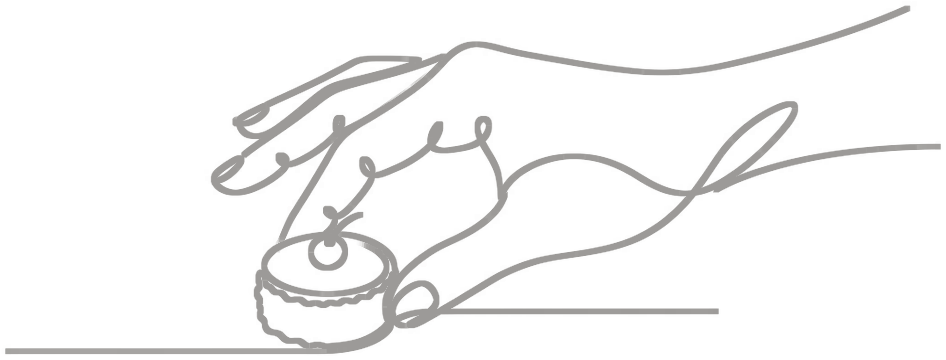
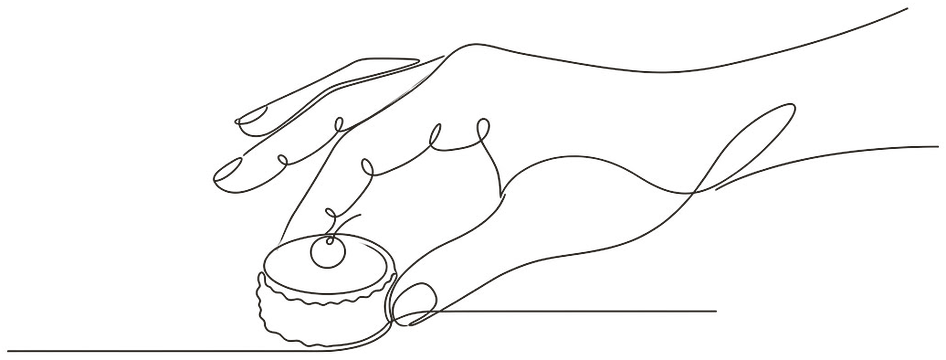
The Day: canape hand back to its fine original line

Changed region(s): [[0.0, 0.0306, 0.9503, 1.0], [0.6744, 0.275, 1.0, 0.6111], [0.9503, 0.0, 0.981, 0.0306]]

diff --git a/the-day.html b/the-day.html
@@ -9,7 +9,7 @@
 <link rel="preconnect" href="https://fonts.googleapis.com" />
 <link rel="preconnect" href="https://fonts.gstatic.com" crossorigin />
 <link href="https://fonts.googleapis.com/css2?family=Cormorant+Garamond:ital,wght@0,400;0,500;0,600;1,400&family=Jost:wght@300;400;500;600;700&family=Pinyon+Script&family=Playfair+Display:ital,wght@0,500;0,600;1,500&family=Bodoni+Moda:ital,wght@0,500;0,600;1,500&family=Cinzel:wght@500;600&family=Marcellus&family=Prata&display=swap" rel="stylesheet" />
-<link rel="stylesheet" href="style.css?v=65" />
+<link rel="stylesheet" href="style.css?v=66" />
 </head>
 <body>
 
@@ -39,22 +39,22 @@
       <hr class="divider" aria-hidden="true" />
     </div>
     <div class="timeline">
-      <div class="tl-item tl-item--art"><div class="tl-text"><div class="tl-time">11:45 am</div><div class="tl-label">Guests Arrive</div><div class="tl-note">Welcome, and a &lsquo;getting comfy&rsquo; half hour</div></div><div class="tl-art tl-art--r"><img src="Photos/itinerary/guests.png?v=19" alt="" loading="lazy"></div></div>
-      <div class="tl-item tl-item--art"><div class="tl-art tl-art--l"><img src="Photos/itinerary/seated.png?v=19" alt="" loading="lazy"></div><div class="tl-text"><div class="tl-time">12:15 pm</div><div class="tl-label">Please Be Seated</div><div class="tl-note">Guests are seated while the registrar speaks with the couple</div></div></div>
-      <div class="tl-item tl-item--art"><div class="tl-text"><div class="tl-time">12:30 pm</div><div class="tl-label">The Ceremony</div><div class="tl-note">The main event &ndash; it&rsquo;s time to make it official!</div></div><div class="tl-art tl-art--r"><img src="Photos/itinerary/ceremony.png?v=19" alt="" loading="lazy"></div></div>
-      <div class="tl-item tl-item--art"><div class="tl-art tl-art--l"><img src="Photos/itinerary/camera.png?v=19" alt="" loading="lazy"></div><div class="tl-text"><div class="tl-time">1:00 pm</div><div class="tl-label">Drinks Reception &amp; Photographs</div><div class="tl-note"></div></div></div>
-      <div class="tl-item tl-item--art"><div class="tl-text"><div class="tl-time">1:15 pm</div><div class="tl-label">Canap&eacute;s</div><div class="tl-note">Served during the drinks reception</div></div><div class="tl-art tl-art--r"><img src="Photos/itinerary/canapes.png?v=19" alt="" loading="lazy"></div></div>
-      <div class="tl-item tl-item--art"><div class="tl-art tl-art--l"><img src="Photos/itinerary/tower.png?v=19" alt="" loading="lazy"></div><div class="tl-text"><div class="tl-time">2:30 pm</div><div class="tl-label">Into the Ballroom</div><div class="tl-note">Guests are moved through to the Ballroom</div></div></div>
-      <div class="tl-item tl-item--art"><div class="tl-text"><div class="tl-time">2:45 pm</div><div class="tl-label">The Happy Couple</div><div class="tl-note">The Master of Ceremonies announces Jessica &amp; Matthew</div></div><div class="tl-art tl-art--r"><img src="Photos/itinerary/couple.png?v=19" alt="" loading="lazy"></div></div>
-      <div class="tl-item tl-item--art"><div class="tl-art tl-art--l"><img src="Photos/itinerary/toast.png?v=19" alt="" loading="lazy"></div><div class="tl-text"><div class="tl-time">3:00 pm</div><div class="tl-label">Speeches &amp; Toast</div><div class="tl-note"></div></div></div>
-      <div class="tl-item tl-item--art"><div class="tl-text"><div class="tl-time">3:30 pm</div><div class="tl-label">Wedding Breakfast</div><div class="tl-note">The wedding breakfast is served</div></div><div class="tl-art tl-art--r"><img src="Photos/itinerary/breakfast.png?v=19" alt="" loading="lazy"></div></div>
-      <div class="tl-item tl-item--art"><div class="tl-art tl-art--l"><img src="Photos/itinerary/cocktail.png?v=19" alt="" loading="lazy"></div><div class="tl-text"><div class="tl-time">5:30 pm</div><div class="tl-label">Refreshment Hour</div><div class="tl-note">An hour of refreshment time before we meet back for the evening</div></div></div>
-      <div class="tl-item tl-item--art"><div class="tl-text"><div class="tl-time">6:30 pm</div><div class="tl-label">Evening Guests Arrive</div><div class="tl-note">Evening guests arrive and the cake is cut</div></div><div class="tl-art tl-art--r"><img src="Photos/itinerary/cake.png?v=19" alt="" loading="lazy"></div></div>
-      <div class="tl-item tl-item--art"><div class="tl-art tl-art--l"><img src="Photos/itinerary/dance.png?v=19" alt="" loading="lazy"></div><div class="tl-text"><div class="tl-time">7:00 pm</div><div class="tl-label">First Dance</div><div class="tl-note"></div></div></div>
-      <div class="tl-item tl-item--art"><div class="tl-text"><div class="tl-time">8:30 pm</div><div class="tl-label">Evening Food</div><div class="tl-note">Evening food is served</div></div><div class="tl-art tl-art--r"><img src="Photos/itinerary/dinner.png?v=19" alt="" loading="lazy"></div></div>
-      <div class="tl-item tl-item--art"><div class="tl-art tl-art--l"><img src="Photos/itinerary/taxi.png?v=19" alt="" loading="lazy"></div><div class="tl-text"><div class="tl-time">12:00 am</div><div class="tl-label">Farewell</div><div class="tl-note">The bar closes, the music finishes and guests depart</div></div></div>
+      <div class="tl-item tl-item--art"><div class="tl-text"><div class="tl-time">11:45 am</div><div class="tl-label">Guests Arrive</div><div class="tl-note">Welcome, and a &lsquo;getting comfy&rsquo; half hour</div></div><div class="tl-art tl-art--r"><img src="Photos/itinerary/guests.png?v=20" alt="" loading="lazy"></div></div>
+      <div class="tl-item tl-item--art"><div class="tl-art tl-art--l"><img src="Photos/itinerary/seated.png?v=20" alt="" loading="lazy"></div><div class="tl-text"><div class="tl-time">12:15 pm</div><div class="tl-label">Please Be Seated</div><div class="tl-note">Guests are seated while the registrar speaks with the couple</div></div></div>
+      <div class="tl-item tl-item--art"><div class="tl-text"><div class="tl-time">12:30 pm</div><div class="tl-label">The Ceremony</div><div class="tl-note">The main event &ndash; it&rsquo;s time to make it official!</div></div><div class="tl-art tl-art--r"><img src="Photos/itinerary/ceremony.png?v=20" alt="" loading="lazy"></div></div>
+      <div class="tl-item tl-item--art"><div class="tl-art tl-art--l"><img src="Photos/itinerary/camera.png?v=20" alt="" loading="lazy"></div><div class="tl-text"><div class="tl-time">1:00 pm</div><div class="tl-label">Drinks Reception &amp; Photographs</div><div class="tl-note"></div></div></div>
+      <div class="tl-item tl-item--art"><div class="tl-text"><div class="tl-time">1:15 pm</div><div class="tl-label">Canap&eacute;s</div><div class="tl-note">Served during the drinks reception</div></div><div class="tl-art tl-art--r"><img src="Photos/itinerary/canapes.png?v=20" alt="" loading="lazy"></div></div>
+      <div class="tl-item tl-item--art"><div class="tl-art tl-art--l"><img src="Photos/itinerary/tower.png?v=20" alt="" loading="lazy"></div><div class="tl-text"><div class="tl-time">2:30 pm</div><div class="tl-label">Into the Ballroom</div><div class="tl-note">Guests are moved through to the Ballroom</div></div></div>
+      <div class="tl-item tl-item--art"><div class="tl-text"><div class="tl-time">2:45 pm</div><div class="tl-label">The Happy Couple</div><div class="tl-note">The Master of Ceremonies announces Jessica &amp; Matthew</div></div><div class="tl-art tl-art--r"><img src="Photos/itinerary/couple.png?v=20" alt="" loading="lazy"></div></div>
+      <div class="tl-item tl-item--art"><div class="tl-art tl-art--l"><img src="Photos/itinerary/toast.png?v=20" alt="" loading="lazy"></div><div class="tl-text"><div class="tl-time">3:00 pm</div><div class="tl-label">Speeches &amp; Toast</div><div class="tl-note"></div></div></div>
+      <div class="tl-item tl-item--art"><div class="tl-text"><div class="tl-time">3:30 pm</div><div class="tl-label">Wedding Breakfast</div><div class="tl-note">The wedding breakfast is served</div></div><div class="tl-art tl-art--r"><img src="Photos/itinerary/breakfast.png?v=20" alt="" loading="lazy"></div></div>
+      <div class="tl-item tl-item--art"><div class="tl-art tl-art--l"><img src="Photos/itinerary/cocktail.png?v=20" alt="" loading="lazy"></div><div class="tl-text"><div class="tl-time">5:30 pm</div><div class="tl-label">Refreshment Hour</div><div class="tl-note">An hour of refreshment time before we meet back for the evening</div></div></div>
+      <div class="tl-item tl-item--art"><div class="tl-text"><div class="tl-time">6:30 pm</div><div class="tl-label">Evening Guests Arrive</div><div class="tl-note">Evening guests arrive and the cake is cut</div></div><div class="tl-art tl-art--r"><img src="Photos/itinerary/cake.png?v=20" alt="" loading="lazy"></div></div>
+      <div class="tl-item tl-item--art"><div class="tl-art tl-art--l"><img src="Photos/itinerary/dance.png?v=20" alt="" loading="lazy"></div><div class="tl-text"><div class="tl-time">7:00 pm</div><div class="tl-label">First Dance</div><div class="tl-note"></div></div></div>
+      <div class="tl-item tl-item--art"><div class="tl-text"><div class="tl-time">8:30 pm</div><div class="tl-label">Evening Food</div><div class="tl-note">Evening food is served</div></div><div class="tl-art tl-art--r"><img src="Photos/itinerary/dinner.png?v=20" alt="" loading="lazy"></div></div>
+      <div class="tl-item tl-item--art"><div class="tl-art tl-art--l"><img src="Photos/itinerary/taxi.png?v=20" alt="" loading="lazy"></div><div class="tl-text"><div class="tl-time">12:00 am</div><div class="tl-label">Farewell</div><div class="tl-note">The bar closes, the music finishes and guests depart</div></div></div>
     </div>
-    <div class="day-end" aria-hidden="true"><img src="Photos/itinerary/farewell.png?v=19" alt="" loading="lazy"></div>
+    <div class="day-end" aria-hidden="true"><img src="Photos/itinerary/farewell.png?v=20" alt="" loading="lazy"></div>
   </section>
 
   </main>

diff --git a/index.html b/index.html
@@ -19,7 +19,7 @@
 <link rel="preconnect" href="https://fonts.googleapis.com" />
 <link rel="preconnect" href="https://fonts.gstatic.com" crossorigin />
 <link href="https://fonts.googleapis.com/css2?family=Cormorant+Garamond:ital,wght@0,400;0,500;0,600;1,400&family=Jost:wght@300;400;500;600;700&family=Pinyon+Script&family=Playfair+Display:ital,wght@0,500;0,600;1,500&family=Bodoni+Moda:ital,wght@0,500;0,600;1,500&family=Cinzel:wght@500;600&family=Marcellus&family=Prata&display=swap" rel="stylesheet" />
-<link rel="stylesheet" href="style.css?v=65" />
+<link rel="stylesheet" href="style.css?v=66" />
 </head>
 <body>
 

diff --git a/faq.html b/faq.html
@@ -9,7 +9,7 @@
 <link rel="preconnect" href="https://fonts.googleapis.com" />
 <link rel="preconnect" href="https://fonts.gstatic.com" crossorigin />
 <link href="https://fonts.googleapis.com/css2?family=Cormorant+Garamond:ital,wght@0,400;0,500;0,600;1,400&family=Jost:wght@300;400;500;600;700&family=Pinyon+Script&family=Playfair+Display:ital,wght@0,500;0,600;1,500&family=Bodoni+Moda:ital,wght@0,500;0,600;1,500&family=Cinzel:wght@500;600&family=Marcellus&family=Prata&display=swap" rel="stylesheet" />
-<link rel="stylesheet" href="style.css?v=65" />
+<link rel="stylesheet" href="style.css?v=66" />
 </head>
 <body>
 

diff --git a/registry.html b/registry.html
@@ -9,7 +9,7 @@
 <link rel="preconnect" href="https://fonts.googleapis.com" />
 <link rel="preconnect" href="https://fonts.gstatic.com" crossorigin />
 <link href="https://fonts.googleapis.com/css2?family=Cormorant+Garamond:ital,wght@0,400;0,500;0,600;1,400&family=Jost:wght@300;400;500;600;700&family=Pinyon+Script&family=Playfair+Display:ital,wght@0,500;0,600;1,500&family=Bodoni+Moda:ital,wght@0,500;0,600;1,500&family=Cinzel:wght@500;600&family=Marcellus&family=Prata&display=swap" rel="stylesheet" />
-<link rel="stylesheet" href="style.css?v=65" />
+<link rel="stylesheet" href="style.css?v=66" />
 </head>
 <body>
 

diff --git a/rsvp.html b/rsvp.html
@@ -9,7 +9,7 @@
 <link rel="preconnect" href="https://fonts.googleapis.com" />
 <link rel="preconnect" href="https://fonts.gstatic.com" crossorigin />
 <link href="https://fonts.googleapis.com/css2?family=Cormorant+Garamond:ital,wght@0,400;0,500;0,600;1,400&family=Jost:wght@300;400;500;600;700&family=Pinyon+Script&family=Playfair+Display:ital,wght@0,500;0,600;1,500&family=Bodoni+Moda:ital,wght@0,500;0,600;1,500&family=Cinzel:wght@500;600&family=Marcellus&family=Prata&display=swap" rel="stylesheet" />
-<link rel="stylesheet" href="style.css?v=65" />
+<link rel="stylesheet" href="style.css?v=66" />
 </head>
 <body>
 

diff --git a/things-to-do.html b/things-to-do.html
@@ -9,7 +9,7 @@
 <link rel="preconnect" href="https://fonts.googleapis.com" />
 <link rel="preconnect" href="https://fonts.gstatic.com" crossorigin />
 <link href="https://fonts.googleapis.com/css2?family=Cormorant+Garamond:ital,wght@0,400;0,500;0,600;1,400&family=Jost:wght@300;400;500;600;700&family=Pinyon+Script&family=Playfair+Display:ital,wght@0,500;0,600;1,500&family=Bodoni+Moda:ital,wght@0,500;0,600;1,500&family=Cinzel:wght@500;600&family=Marcellus&family=Prata&display=swap" rel="stylesheet" />
-<link rel="stylesheet" href="style.css?v=65" />
+<link rel="stylesheet" href="style.css?v=66" />
 </head>
 <body>
 

diff --git a/travel.html b/travel.html
@@ -9,7 +9,7 @@
 <link rel="preconnect" href="https://fonts.googleapis.com" />
 <link rel="preconnect" href="https://fonts.gstatic.com" crossorigin />
 <link href="https://fonts.googleapis.com/css2?family=Cormorant+Garamond:ital,wght@0,400;0,500;0,600;1,400&family=Jost:wght@300;400;500;600;700&family=Pinyon+Script&family=Playfair+Display:ital,wght@0,500;0,600;1,500&family=Bodoni+Moda:ital,wght@0,500;0,600;1,500&family=Cinzel:wght@500;600&family=Marcellus&family=Prata&display=swap" rel="stylesheet" />
-<link rel="stylesheet" href="style.css?v=65" />
+<link rel="stylesheet" href="style.css?v=66" />
 </head>
 <body>
 

diff --git a/wedding-party.html b/wedding-party.html
@@ -9,7 +9,7 @@
 <link rel="preconnect" href="https://fonts.googleapis.com" />
 <link rel="preconnect" href="https://fonts.gstatic.com" crossorigin />
 <link href="https://fonts.googleapis.com/css2?family=Cormorant+Garamond:ital,wght@0,400;0,500;0,600;1,400&family=Jost:wght@300;400;500;600;700&family=Pinyon+Script&family=Playfair+Display:ital,wght@0,500;0,600;1,500&family=Bodoni+Moda:ital,wght@0,500;0,600;1,500&family=Cinzel:wght@500;600&family=Marcellus&family=Prata&display=swap" rel="stylesheet" />
-<link rel="stylesheet" href="style.css?v=65" />
+<link rel="stylesheet" href="style.css?v=66" />
 </head>
 <body>
 
